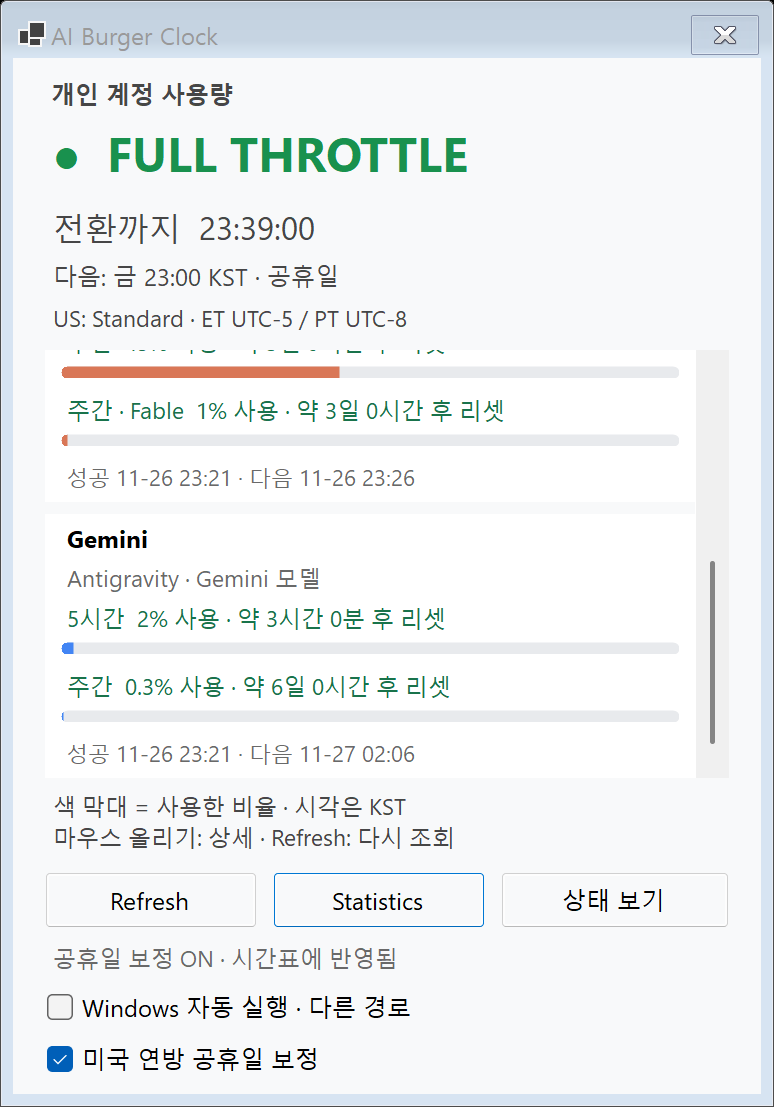
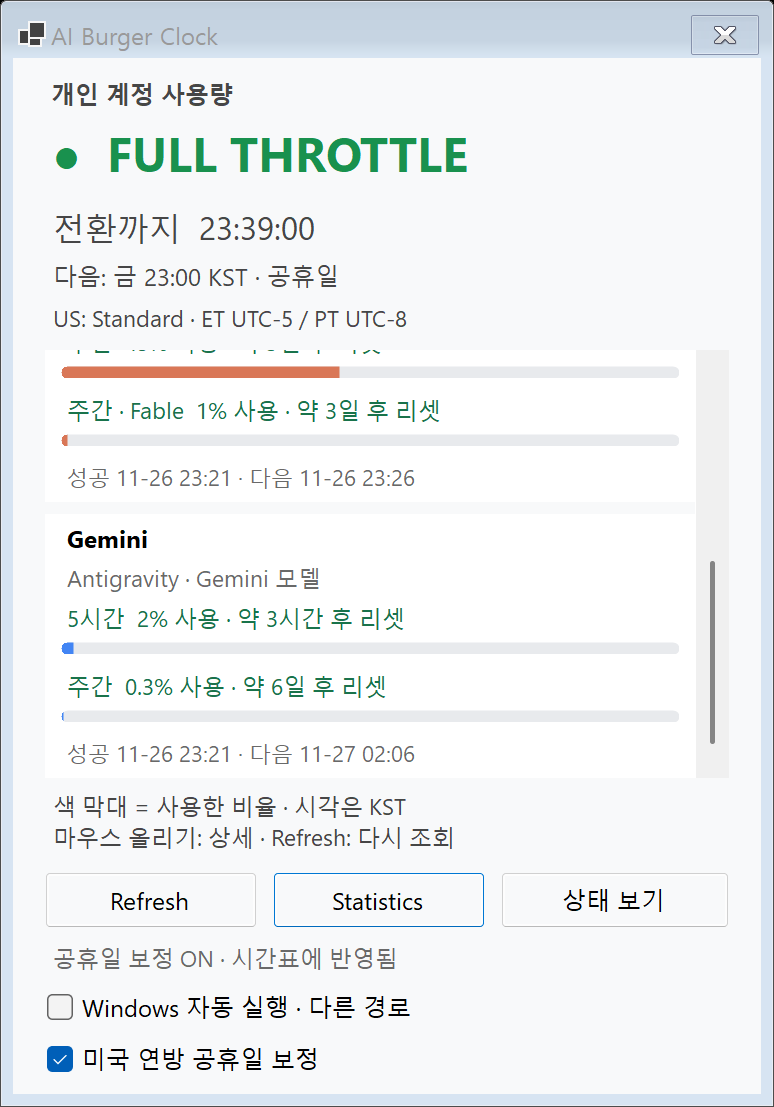
docs: record zero-unit regression checks and Mac follow-up

Changed region(s): [[0.4651, 0.3379, 0.6512, 0.3993], [0.4031, 0.6143, 0.5891, 0.645], [0.4341, 0.5528, 0.5891, 0.5836]]

diff --git a/QUOTA_USAGE_UI.md b/QUOTA_USAGE_UI.md
@@ -2,7 +2,7 @@
 
 기록일: 2026-10-10 KST. 범위: **공통 코드 변경**.
 
-Windows 테스트 빌드의 사용량 막대·간략 시간·Provider별 상세 설명을 정리했습니다. Mac 소스·버전·MACOS_PORT.md·배포 EXE는 수정하지 않았습니다. **Mac 검증 전 병합하지 않으며, 이 작업은 배포 승인이나 버전 변경이 아닙니다.**
+Windows 테스트 빌드의 사용량 막대·간략 시간·Provider별 상세 설명을 정리했습니다. Windows 담당은 Mac 소스·버전·MACOS_PORT.md·배포 EXE를 수정하지 않았습니다. Mac 담당의 smoke 기대값 커밋 `5f0c4e5`는 받아 유지했습니다. **최신 수정의 Mac 검증 전 병합하지 않으며, 이 작업은 배포 승인이나 버전 변경이 아닙니다.**
 
 ## 공개 기록의 계정 정보 보호
 
@@ -10,7 +10,42 @@ Windows 테스트 빌드의 사용량 막대·간략 시간·Provider별 상세 
 - 이 문서와 PR의 화면 예시는 실제 계정과 무관한 **합성 데이터**입니다. `docs/images/quota-usage/` 4개와 `docs/reviews/windows-quota-tooltip-wrap-20261010/` 3개, PNG 7개 모두 테스트의 가짜 조회 응답과 주입 시각을 사용합니다. 이후 Mac 검증 코멘트도 합성 화면 또는 성공 여부·응답 형식 등 일반화한 결과로 남깁니다.
 - 공개 기록 규칙 추가(`ca14e2b`)는 지침·문서만 변경했습니다. 이후 공통 문구 보완과 재검증은 아래에 별도로 기록합니다.
 
-## Mac 확인 후 공통 문구 보완 (최신 검증)
+## 앞뒤 0 단위 생략 (최신 검증)
+
+Mac 담당의 `5f0c4e5276e4826a6005bc6045df9fe3e10e2c8a`를 먼저 fast-forward로 받았습니다. [Mac 확인 코멘트](https://github.com/hydron75/ai-burger-clock/pull/45#issuecomment-6094312678)의 공통 251,140건·빌드/native smoke 통과는 그 커밋의 결과이며, 아래 새 수정의 Mac 검증으로 대신하지 않습니다.
+
+아래는 실제 계정과 무관한 합성 시간 예시입니다.
+
+| 입력 | 최신 표기 |
+|---|---|
+| 5시간 창, 정확히 5시간 | `약 5시간 후 리셋` |
+| 주간 창, 정확히 2일 | `약 2일 후 리셋` |
+| 5시간 창, 4시간 59분 30초 | `약 5시간 후 리셋` |
+| 주간 창, 23시간 59분 30초 | `약 1일 후 리셋` |
+| 주간 창, 47시간 59분 30초 | `약 2일 후 리셋` |
+| 5시간 창, 15분 / 주간 창, 7시간 | `약 15분 후 리셋` / `약 7시간 후 리셋` |
+
+- 올림·이월한 뒤 **앞뒤 모두 값이 0인 단위를 생략**합니다. 단위 선택·올림 계산·1분 미만·경과·미제공 처리와 조회 주기·톤 판정은 그대로입니다.
+- `QuotaPresentationTests`에 정확히 5시간·2일, 4시간 59분 30초·47시간 59분 30초 검사 **4건**을 추가했습니다. 기존 정확히 1시간·1일, 59분 30초·23시간 59분 30초 검사와 공통 panel/Windows smoke 기대값도 새 문구로 갱신했습니다. 기존 검사 수는 줄이지 않았습니다.
+- Windows 담당이 이번에 수정한 소스는 `DisplayFormatting.cs`, `QuotaPresentationTests.cs`, `PanelModelTests.cs`, `AccountQuotaUiChecks.cs`입니다. Mac 파일은 수정하지 않았습니다.
+
+검증 C# 소스: `341f77e5682025280dbc645a6f263fe9a5b1f5ce`. SDK **10.0.401**.
+
+| 검사 | 수정 전 #45 (`5f0c4e5`) | 수정 후 | 변화 |
+|---|---:|---:|---:|
+| 공통 검사 | 251,140 | 251,144 | +4 |
+| Windows 전용 self-test | 307 | 307 | 0 |
+| Windows self-test 전체 | 251,447 | 251,451 | +4 |
+| quota usage/countdown/provider detail 그룹 | 70 | 74 | +4 |
+| Windows smoke PASS | 387 | 387 | 0 |
+
+- `build.ps1`: 경고 **0**·오류 **0**, `--self-test` 실제 프로세스 **ExitCode 0** (`Start-Process -Wait -PassThru`)입니다. `Shared.Tests`도 **251,144건 PASS·종료 코드 0**입니다. 다른 검사 그룹은 모두 수가 같고 quota schemas/polling policy 143건·panel text/tones 261건도 통과했습니다. main 대비 전체·공통 증가는 **74건**입니다.
+- Release EXE `--smoke-test --report-directory ...`: **387 PASS·ExitCode 0**. 합성 Gemini 10초 대기는 10.03초, UI heartbeat 48회, 트레이·상태 카운트다운 각 12개 값으로 응답성 검사를 통과했습니다. 새로운 실패는 없으며 진단은 유지했습니다.
+- 직전 #45 렌더 대비 PNG **19개 중 12개 SHA-256 동일**. 한도 PNG 7개만 0 단위 생략으로 바뀌었고, 비한도 8개와 Provider 상세/팝업 PNG 4개는 모두 동일합니다. 최신 합성 한도 화면을 직접 열어 표기를 확인했습니다.
+- 로컬 증거: `artifacts/shared-quota-zero-units-20261010/`의 `build.txt`, `shared-test.txt`, `self-test.txt`, `smoke.txt`, `smoke-errors.txt`, `before/after/`, `after/`. 원본 로그·실제 계정값은 게시하지 않습니다. 테스트는 합성 데이터로 수행했고 별도 실제 계정 조회는 하지 않았습니다.
+- **한 번 push한 뒤 Mac 확인 완료 전 추가 push하지 않습니다.** Mac 담당은 `MacApplication.cs`의 Gemini smoke 기대값 `약 5시간 0분 후 리셋`을 `약 5시간 후 리셋`으로 맞추고 최신 HEAD에서 빌드·공통 검사 **251,144건**·native smoke를 다시 확인해야 합니다. Mac 재확인과 병합은 아직 하지 않았습니다.
+
+## 앞의 0 단위·사용 기준 안내 보완 (이전 검증 기록)
 
 Mac의 [최초 확인](https://github.com/hydron75/ai-burger-clock/pull/45#issuecomment-6092683457)은 `0ede78c` 기준입니다. 공통 검사 251,123건·빌드 종료 코드 0, 옛 문구 기대값으로 native smoke 종료 코드 1을 보고했습니다. 이 결과는 아래 수정 후 HEAD의 검증이 아닙니다.
 
@@ -42,12 +77,12 @@ Mac의 [최초 확인](https://github.com/hydron75/ai-burger-clock/pull/45#issue
 - Release EXE `--smoke-test --report-directory ...`: **387 PASS·ExitCode 0**. 합성 10초 Gemini 조회는 10.04초, UI heartbeat 49회, 트레이·상태 카운트다운 각 12개 값으로 화면·메뉴 응답 검사를 통과했습니다. 실제 알림 배너 노출 보장은 아닙니다.
 - 이전 #45 대비 PNG **19개 중 13개 SHA-256 동일**, 6개 변경은 간략 시간 행이 있는 한도 화면 3개와 새 안내가 있는 Provider 상세 3개입니다. 상태·공휴일·장애·통계·기록·메모 안내 등 비한도 8개는 모두 동일합니다. 최신 합성 한도·상세 이미지를 아래에 반영했습니다.
 - 로컬 증거: `artifacts/shared-quota-wording-20261010/`의 `build.txt`, `shared-test.txt`, `self-test.txt`, `smoke.txt`, `smoke-errors.txt`, `before/`, `after/`. 원본 로그는 공개 저장소에 올리지 않습니다. 실제 계정 조회·배포 교체는 하지 않았습니다.
-- **이번 결과를 한 번 push한 뒤 Mac 확인 완료 전 추가 push하지 않습니다.** Mac 담당이 같은 #45 브랜치에 native smoke 기대값 커밋을 추가하고 최신 HEAD로 빌드·공통 검사·native smoke를 다시 확인합니다. 새 공통 예상 수는 **251,140건**입니다. 이 재확인 전 병합 보류를 유지합니다.
+- 당시에는 공통 **251,140건**으로 Mac 기대값 커밋·재확인을 요청했습니다. 이후 `5f0c4e5`에서 이 검증이 완료됐으며, 이번 앞뒤 0 단위 수정은 위 최신 절의 **251,144건** 재확인을 기다립니다.
 
 ## 표시 계약
 
 - 제목은 `개인 계정 사용량`, 행과 막대는 **사용한 비율**입니다. 0%는 빈 막대, 100%는 가득 찬 막대입니다. 행은 소수 한 자리로 표시하되 막대 데이터는 원래 소수 사용률을 유지합니다.
-- 5시간 창(`WindowMinutes=300`)은 `약 N시간 N분 후 리셋`, 주간 창(`10080`)은 `약 N일 N시간 후 리셋`입니다. 마지막 표시 단위를 올림하고 60분/24시간을 이월한 뒤 **앞 단위가 0이면 생략**합니다. `약 15분 후 리셋`, `약 7시간 후 리셋`처럼 표시하며 뒤 단위의 0은 유지합니다(`약 1시간 0분`, `약 1일 0시간`).
+- 5시간 창(`WindowMinutes=300`)은 시간·분, 주간 창(`10080`)은 일·시간을 사용합니다. 마지막 표시 단위를 올림하고 60분/24시간을 이월한 뒤 **앞뒤 모두 값이 0인 단위를 생략**합니다. `약 15분 후 리셋`, `약 5시간 후 리셋`, `약 2일 후 리셋`처럼 표시하고, 두 단위가 모두 0이 아니면 `약 2시간 37분 후 리셋`처럼 유지합니다.
 - 주기 미확인 창은 남은 기간에 따라 단위를 정합니다. 1분 미만은 `곧 리셋 예정`, null은 `리셋 미제공`, 경과값은 `갱신 대기`입니다. 경과만으로 사용량을 0%로 바꾸지 않습니다.
 - 상세는 **Provider별 하나**입니다. 모든 창의 정확한 `yyyy-MM-dd HH:mm:ss KST` 리셋 예정 시각, 미제공·경과 안내, 마지막 성공·다음 조회·최근 시도, 오류·캐시 오류, 조회 주기와 신선도 한계, 조회 범위를 담습니다. 화면에 이미 있는 사용률을 다시 나열하지 않습니다.
 - 리셋은 예정 시각입니다. 실제 한도 복원은 새 조회로 확인합니다. 조회 안내도 사용률 기준으로 통일하지만 **주의/위험 톤과 조회 주기·재시도 계산은 변경하지 않습니다.** DB·CLI·네트워크 조회 계약도 그대로입니다.
@@ -59,7 +94,7 @@ Mac의 [최초 확인](https://github.com/hydron75/ai-burger-clock/pull/45#issue
 | `QuotaPanelModel.cs` | 사용량 제목·행·안내, Provider 상세를 직접 생성. `QuotaLine.UsedPercent`는 실제 조회값 또는 null, `QuotaSectionText.Detail`은 Provider 상세. 제목·scope·행·metadata의 Detail은 동일 |
 | `DisplayFormatting.cs` | `CompactResetCountdown`으로 간략 시간·올림·단위 선택을 공통화. 기존 `ResetCountdown`은 유지 |
 | `PanelModelTests.cs` | 기존 골든을 새 표시 계약으로 갱신. 검사 수 261 그대로 |
-| `QuotaPresentationTests.cs` / `SharedTestSuite.cs` | 시간 계산 14건 이동 + 새 계약 39건 + 이번 경계값·안내 17건 = 70건. 공통 실행 목록에 한 번 등록 |
+| `QuotaPresentationTests.cs` / `SharedTestSuite.cs` | 시간 계산 14건 이동 + 새 계약 39건 + 앞의 0 단위·안내 17건 + 앞뒤 0 단위 경계값 4건 = 74건. 공통 실행 목록에 한 번 등록 |
 
 새 앱 공통 파일은 추가하지 않아 `Shared/SharedSources.props` 목록은 그대로입니다. 새 검사 파일은 기존 glob으로 두 검사 프로젝트에서 컴파일합니다.
 
@@ -126,7 +161,7 @@ main 배포 소스의 기존 smoke는 293 PASS입니다. 397은 앞선 로컬 UI
 
 이 PR은 공통 코드 변경입니다. **Mac 검증 코멘트가 나오기 전 병합하지 않습니다.** Windows 담당은 `Mac/`·Mac 버전·`MACOS_PORT.md`를 수정하지 않았습니다.
 
-1. 공통 문구 보완 push 뒤 같은 #45 브랜치에 Mac smoke 기대값 커밋을 추가해 주세요. 그 최신 HEAD에서 `Mac/build.sh`와 네이티브 `--smoke-test`를 실행하고, 커밋 해시·SDK/Xcode·경고/오류·공통 assertion 수·smoke 종료 코드를 PR 코멘트로 남겨 주세요. 공통 검사는 **251,140건(최초 #45 대비 +17, main 대비 +70)**이 예상됩니다. 다르면 그룹별 차이를 알려 주세요. Windows는 이 확인이 끝날 때까지 추가 push하지 않습니다.
+1. 기존 Mac smoke 기대값 커밋 `5f0c4e5`는 유지했습니다. 이번 앞뒤 0 단위 생략 push 뒤 `MacApplication.cs` Gemini 기대값의 `약 5시간 0분 후 리셋`을 `약 5시간 후 리셋`으로 맞춰 주세요. 최신 HEAD에서 `Mac/build.sh`와 네이티브 `--smoke-test`를 실행하고, 커밋 해시·SDK/Xcode·경고/오류·공통 assertion 수·smoke 종료 코드를 PR 코멘트로 남겨 주세요. 공통 검사는 **251,144건(직전 Mac 검증 대비 +4, main 대비 +74)**이 예상됩니다. 다르면 그룹별 차이를 알려 주세요. Windows는 이 확인이 끝날 때까지 추가 push하지 않습니다.
 2. 기존 `QuotaPanelModel.Sections` 호출에서 한도 행과 Detail이 자동으로 바뀝니다. 5시간/주간의 사용률·간략 단위, 정확한 KST 상세, 이전/경과/미제공·조회 실패 상태가 팝오버에 맞게 표시되는지 확인해 주세요. 기존 Mac smoke의 행·툴팁 기대값도 점검해 주세요.
 3. Mac 제목은 지금 `개인 계정 잔여 한도`로 하드코딩되어 있습니다. Mac 후속 반영에서 `QuotaPanelModel.AccessibleName`을 사용해 `개인 계정 사용량`으로 맞춰 주세요.
 4. Mac 후속 반영에서 `QuotaLine.UsedPercent`로 네이티브 사용량 막대를 추가해 주세요. 0% 빈 막대 / 100% 가득 찬 막대, 서비스별 대표색, 이전·경과 값은 Muted로 구분합니다. null에는 막대를 만들지 않습니다. 색·그리기·라이트/다크 대비는 AppKit에서 정합니다.
@@ -138,4 +173,4 @@ main 배포 소스의 기존 smoke는 293 PASS입니다. 397은 앞선 로컬 UI
 
[1 lines of base64/hex data omitted]
 - 사용자 DB·CLI 인증·자동 시작 등록을 테스트에서 변경하지 않았습니다. `--verify-autostart`·실제 계정 조회는 이번 검증에서 실행하지 않았습니다.
-- 보완 후 HEAD의 Mac 빌드·native smoke는 **미수행 — Mac 담당 기대값 커밋·재확인 대기**입니다. 최초 HEAD의 Mac 코멘트와 구분합니다. 실제 다중 모니터에서 사용자가 포인터를 움직이는 관찰, 실제 한도 리셋/복원, 재부팅·절전·전체 네트워크 단절도 미수행입니다. DPI·음수 모니터 좌표·포인터/닫힘은 실제 Windows 팝업과 합성 좌표/이벤트로 검사했으며 실사용 관찰과 구분합니다.
+- 최신 앞뒤 0 단위 생략 HEAD의 Mac 빌드·native smoke는 **미수행 — Mac 담당 기대값 커밋·재확인 대기**입니다. `5f0c4e5`의 통과와 구분합니다. 실제 다중 모니터에서 사용자가 포인터를 움직이는 관찰, 실제 한도 리셋/복원, 재부팅·절전·전체 네트워크 단절도 미수행입니다. DPI·음수 모니터 좌표·포인터/닫힘은 실제 Windows 팝업과 합성 좌표/이벤트로 검사했으며 실사용 관찰과 구분합니다.

diff --git a/BACKLOG.md b/BACKLOG.md
@@ -3,8 +3,8 @@
 ## 배포 전: 계정 사용량 막대·Provider 상세 공통화
 
 - 2026-10-10 KST. 사용한 비율·간략 리셋 시간·Provider별 하나의 상세 문구를 공통 모델로 정리하고 Windows 네이티브 막대·흰색 고정 폭 팝업에 연결했다. [범위·Windows 검증·화면·Mac 반영 요청](QUOTA_USAGE_UI.md).
-- Mac 최초 확인 뒤 앞의 0 단위 생략·사용 기준 조회 안내를 보완했다. Windows 재검증: 경고 0·오류 0, self-test 251,447건(공통 251,140 + Windows 307, 보완 전보다 +17), smoke 387 PASS·종료 코드 0. 초기 smoke의 오래된 개별 상세 문자열 검사 실패와 보완도 기록에 남겼다.
-- **Mac 재확인 전 병합 보류, 미배포.** 이번 push 뒤 Mac이 같은 #45 브랜치에 native smoke 기대값 커밋을 추가·검증할 때까지 Windows 추가 push는 하지 않는다. Windows 담당은 Mac 코드·버전·배포 2.3.0 EXE를 변경하지 않았다. Mac 제목·사용률 막대·Provider 상세 연결은 Mac 담당 후속 요청이다. 조회 주기·주의/위험 판정·DB는 그대로다.
+- Mac smoke 기대값 커밋 `5f0c4e5`를 받은 뒤 간략 리셋의 앞뒤 0 단위를 모두 생략하도록 보완했다. 올림·이월 뒤 0 단위 검사 4건을 추가했다. Windows 최신 재검증: 경고 0·오류 0, self-test 251,451건(공통 251,144 + Windows 307, 직전 #45보다 +4), smoke 387 PASS·종료 코드 0. 앞의 0 단위·사용 기준 안내 보완과 초기 smoke의 오래된 개별 상세 검사 실패는 기록에 남겼다.
+- **최신 수정의 Mac 재확인 전 병합 보류, 미배포.** 이번 push 뒤 Mac이 같은 #45 브랜치의 Gemini smoke 기대값을 `약 5시간 후 리셋`으로 갱신하고 빌드·공통 251,144건·native smoke를 확인할 때까지 Windows 추가 push는 하지 않는다. Windows 담당은 Mac 코드·버전·배포 2.3.0 EXE를 변경하지 않았다. Mac 제목·사용률 막대·Provider 상세 연결은 Mac 담당 후속 요청이다. 조회 주기·주의/위험 판정·DB는 그대로다.
 
 ## Windows 2.3.0에 반영
 
